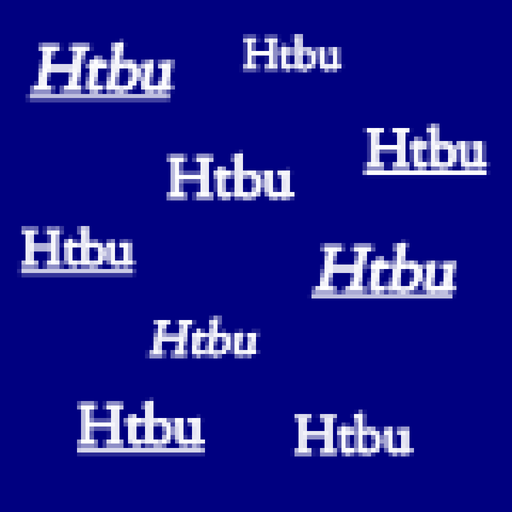
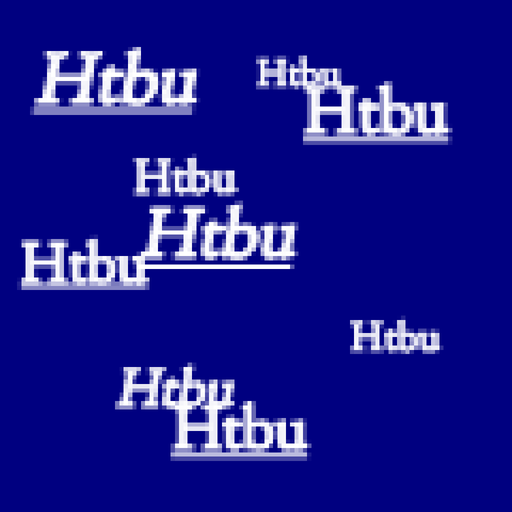
圖標字樣排得更散亂：大小差距加大、幾組交疊、留出空白
Claude-Session: https://claude.ai/code/session_01CvYpPQnMtBqMma8WMqr6Vg

diff --git a/tools/icon.html b/tools/icon.html
@@ -9,8 +9,8 @@ o.fillStyle='#000080';o.fillRect(0,0,L,L);
 /* 白字 Htbu（Satsuki 加粗）：參考網頁連結散落的感覺——不旋轉、大小不一但平均、有的斜體、有的底線，貼近邊緣 */
 o.font=`100px TX`;const tw=o.measureText('Htbu').width;o.fillStyle=o.strokeStyle='#fff';o.lineJoin='round';
 /* [x, 基線 y, 字寬（方框比例）, 斜體, 底線] */
-[[.02,.15,.30,1,1],[.47,.10,.21,0,0],[.73,.31,.26,0,1],[.31,.37,.27,0,0],[.00,.52,.24,0,1],
- [.62,.57,.30,1,1],[.27,.71,.23,1,0],[.12,.90,.27,0,1],[.58,.92,.25,0,0]].forEach(([x,y,w,it,ul])=>{const f=100*W*w/tw;o.save();o.translate(M+W*x,M+W*y);if(it)o.transform(1,0,-.2,1,0,0);o.font=`${f}px TX`;o.lineWidth=f*.06;o.strokeText('Htbu',0,0);o.fillText('Htbu',0,0);if(ul)o.fillRect(0,Math.round(f*.1),W*w,Math.max(1,Math.round(f*.06)));o.restore()});
+[[.03,.17,.34,1,1],[.50,.14,.18,0,0],[.60,.24,.31,0,1],[.24,.36,.22,0,0],[.00,.55,.27,0,1],
+ [.25,.50,.33,1,1],[.70,.70,.19,0,0],[.20,.82,.25,1,0],[.32,.91,.29,0,1]].forEach(([x,y,w,it,ul])=>{const f=100*W*w/tw;o.save();o.translate(M+W*x,M+W*y);if(it)o.transform(1,0,-.2,1,0,0);o.font=`${f}px TX`;o.lineWidth=f*.06;o.strokeText('Htbu',0,0);o.fillText('Htbu',0,0);if(ul)o.fillRect(0,Math.round(f*.1),W*w,Math.max(1,Math.round(f*.06)));o.restore()});
 const c=document.getElementById('c').getContext('2d');c.imageSmoothingEnabled=false;c.drawImage(o.canvas,0,0,S,S);
 document.title='done'}
 draw();</script>

diff --git a/sw.js b/sw.js
@@ -1,5 +1,5 @@
 // 更新程式後，把下面的版本號加 1，手機才會抓到新版
-const C = 'nyear-v255';
+const C = 'nyear-v256';
 const FILES = ['./', './index.html', './fonts.css', './manifest.webmanifest', './icon-192.png', './icon-512.png', './apple-touch-icon.png'];
 // 字體切成小份（fonts/）：先備好 Win95 字體的第一份（英數標點＋介面文字），其他用到時才下載
 const FONTS = ['./fonts/c00.ttf'];
